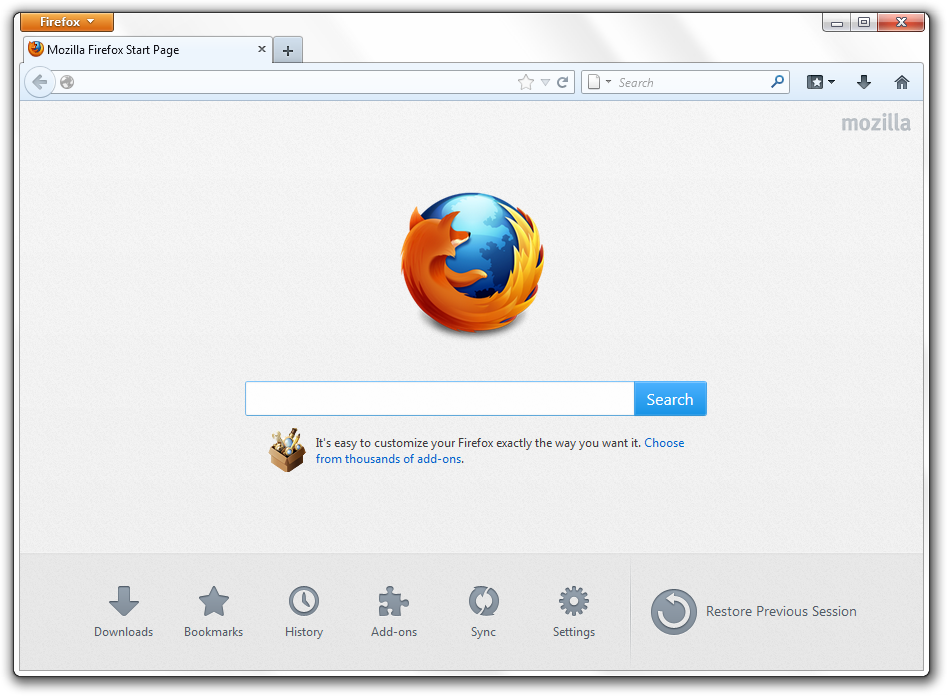
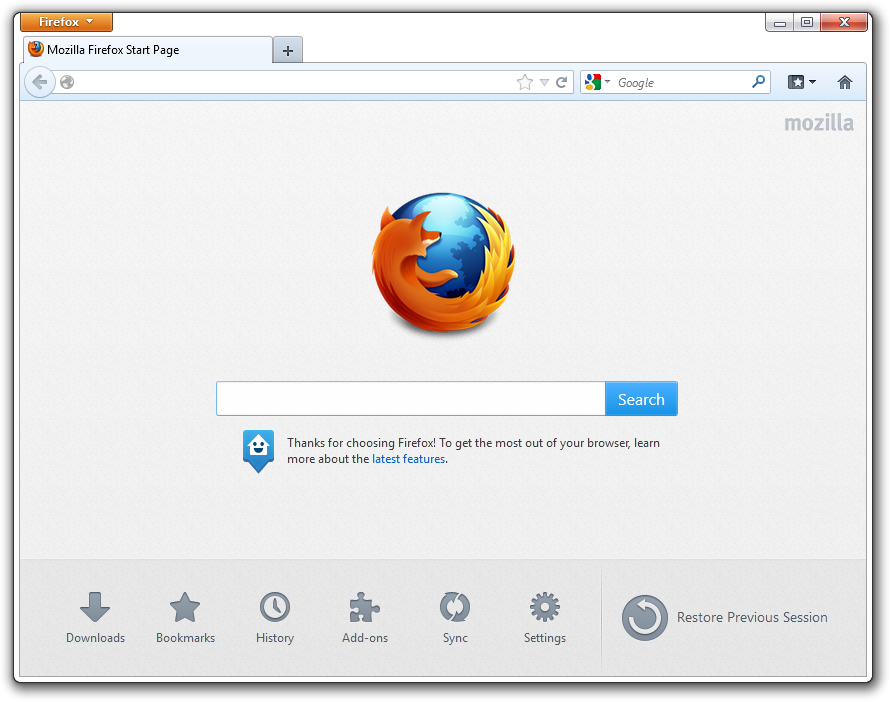
Add Windows 10 card previews

diff --git a/Echelon/Profile Folder/chrome/scss-src/chrome/firefox-4/_toolbars.scss b/Echelon/Profile Folder/chrome/scss-src/chrome/firefox-4/_toolbars.scss
@@ -427,7 +427,7 @@
 
 // Toolbar borders
 :root[sizemode="normal"] {
-    &:not([echelon-system-style="winxp"], [lwtheme-image]) {
+    &:not([echelon-system-style="winxp"], [echelon-system-style="win10"], [lwtheme-image]) {
         #navigator-toolbox::after {
             border-inline: 1px solid var(--toolbar-border-color) !important;
             background-clip: padding-box !important;

diff --git a/Echelon/Profile Folder/chrome/pages/options/styles.scss b/Echelon/Profile Folder/chrome/pages/options/styles.scss
@@ -467,6 +467,10 @@ label:not(.header)[needs-restart-label]::after {
 	background-position: 23px 10px;
 }
 
+#preset-container[echelon-system-style="win10"] image {
+	background-position: 10px -8px;
+}
+
 .view-credits-button {
 	padding-inline: 14px;
 	padding-block: 0;

diff --git a/Echelon/Profile Folder/chrome/pages/options/script.js b/Echelon/Profile Folder/chrome/pages/options/script.js
@@ -304,7 +304,7 @@ class ThemeUtils
 		},
         8: { // Firefox 56
 			"version": "56",
-            "name": "Firefox 56 (WIP)",
+            "name": "Firefox 56",
             "year": "2017",
 		}
 	};
